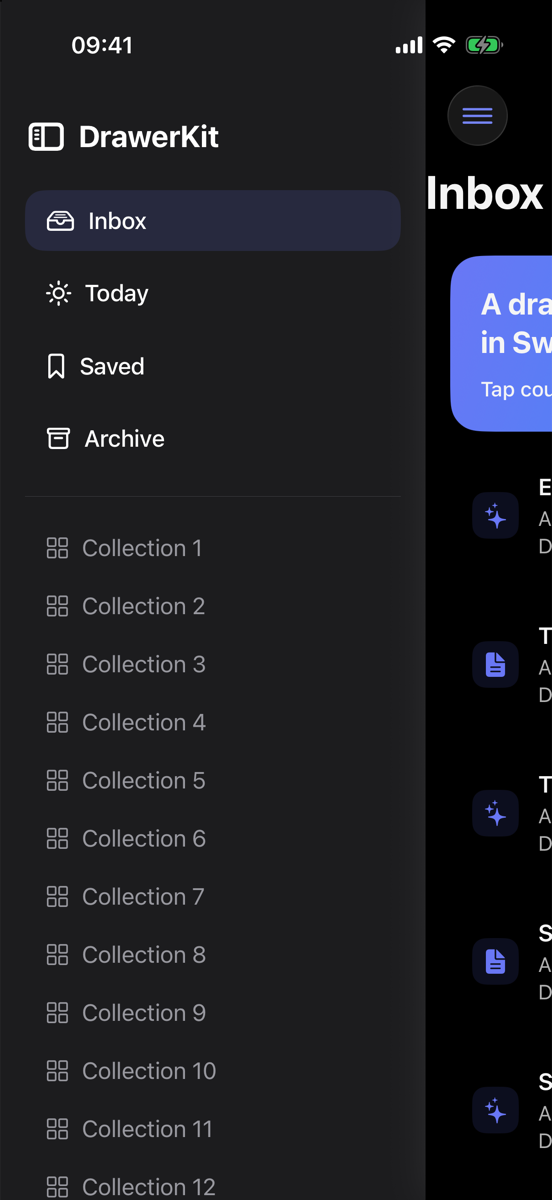
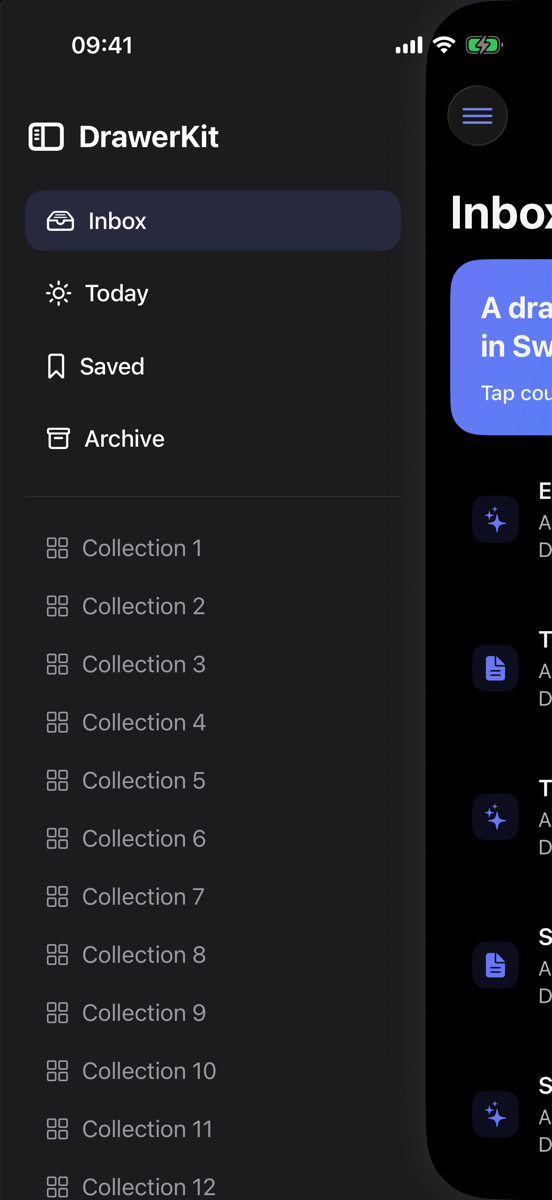
Polish demo drawer presentation

diff --git a/Examples/DrawerKitDemo/Sources/DemoRootView.swift b/Examples/DrawerKitDemo/Sources/DemoRootView.swift
@@ -20,6 +20,7 @@ struct DemoRootView: View {
         var configuration = DrawerConfiguration()
         configuration.width = 310
         configuration.backgroundColor = Color(uiColor: .secondarySystemBackground)
+        configuration.contentCornerRadius = 48
         configuration.contentDimOpacity = 0.04
         return configuration
     }
@@ -70,6 +71,12 @@ struct DemoRootView: View {
         NavigationStack {
             ScrollView {
                 LazyVStack(spacing: 14) {
+                    Text(selectedSection)
+                        .font(.largeTitle.bold())
+                        .frame(maxWidth: .infinity, alignment: .leading)
+                        .accessibilityIdentifier("main.title")
+                        .accessibilityAddTraits(.isHeader)
+
                     headerCard
 
                     ForEach(1...10, id: \.self) { index in
@@ -102,7 +109,6 @@ struct DemoRootView: View {
                 .padding(18)
             }
             .background(Color(uiColor: .systemGroupedBackground))
-            .navigationTitle(selectedSection)
             .toolbar {
                 ToolbarItem(placement: .topBarLeading) {
                     Button {

diff --git a/Examples/DrawerKitDemo/UITests/DrawerKitDemoUITests.swift b/Examples/DrawerKitDemo/UITests/DrawerKitDemoUITests.swift
@@ -23,7 +23,9 @@ final class DrawerKitDemoUITests: XCTestCase {
         app.buttons["drawer.open"].tap()
         app.buttons["drawer.saved"].tap()
 
-        XCTAssertTrue(app.navigationBars["Saved"].waitForExistence(timeout: 1))
+        let title = app.staticTexts["main.title"]
+        XCTAssertTrue(title.waitForExistence(timeout: 1))
+        XCTAssertEqual(title.label, "Saved")
     }
 
     func test_swipingMovedContentClosesDrawer() {
